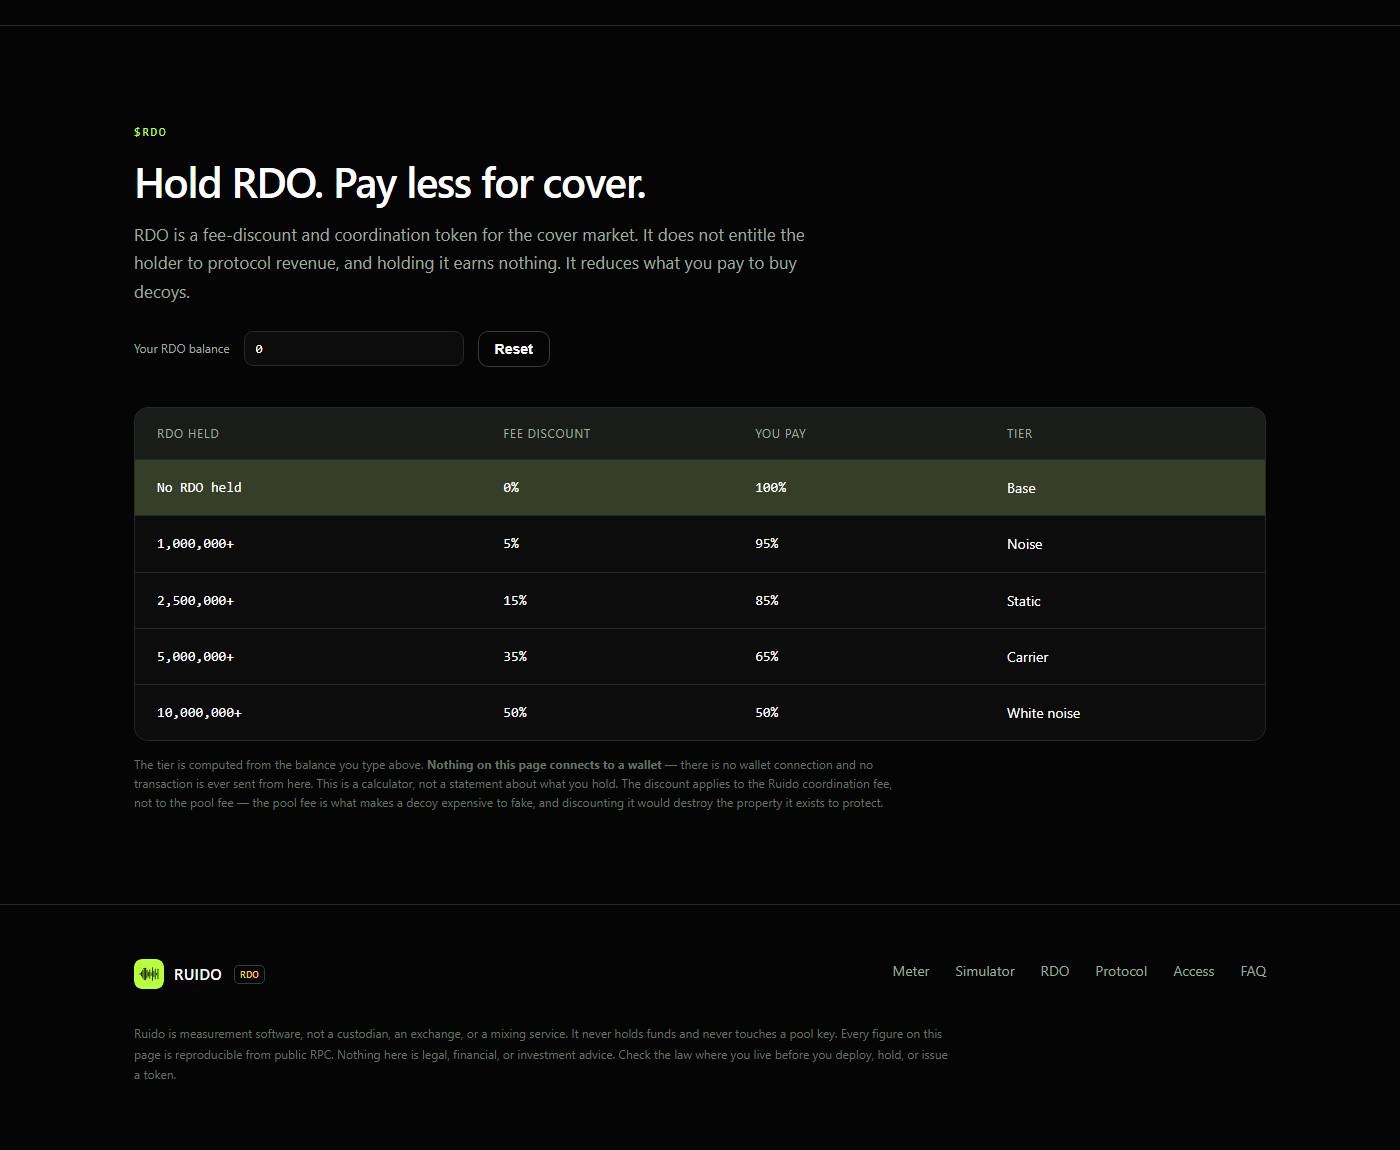
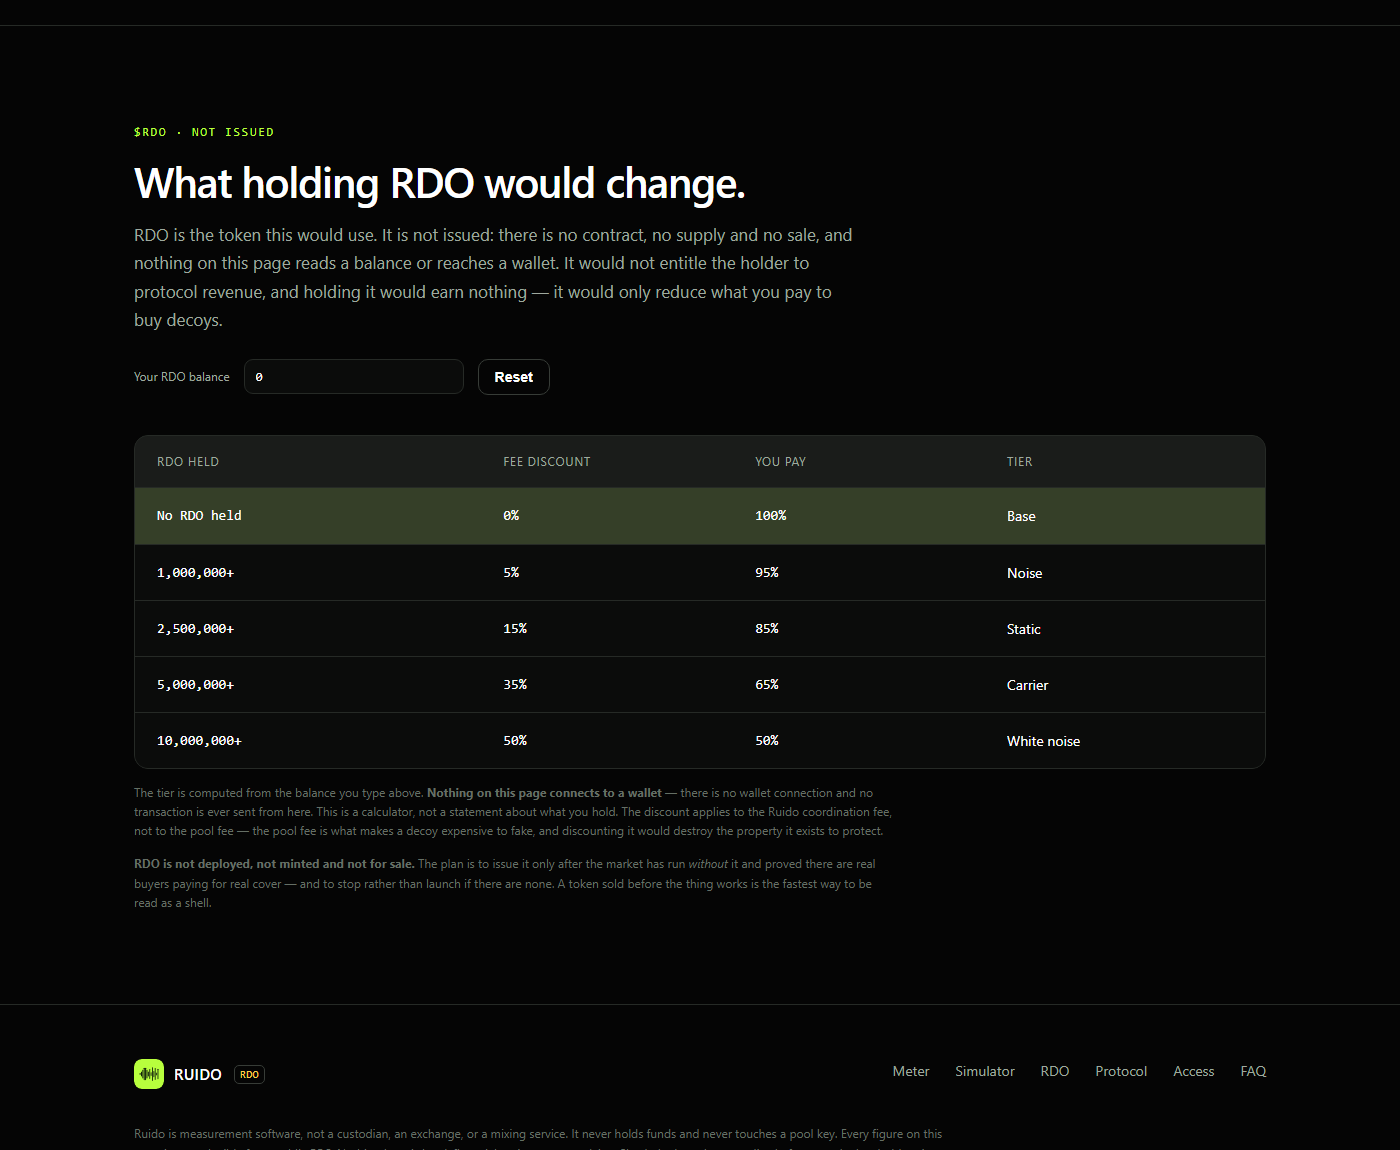
Stop describing RDO in the present tense
app.html said "RDO is a fee-discount and coordination token for the cover
market" under a heading that read "Hold RDO. Pay less for cover." RDO is
not deployed, not minted and not for sale. There is no contract, no
supply, no sale, and not one line of code that issues a token -- the only
token in the tree is STRK_TOKEN, which is Starknet's STRK, not ours.

The rule this broke is the project's own: the copy describes only what is
built. The note underneath did say "this is a calculator, not a statement
about what you hold", but nothing anywhere said RDO does not exist yet,
which is the one fact a reader needs before anything else.

Now, in the section:
  - eyebrow    $RDO -> $RDO · not issued
  - heading    What holding RDO would change.
  - lede       RDO is the token this would use. It is not issued: there is
               no contract, no supply and no sale, and nothing on this page
               reads a balance or reaches a wallet.
  - a new note stating it is not deployed, not minted and not for sale,
    and that the plan is to issue it only after the market has run WITHOUT
    it and proved there are real buyers -- and to stop rather than launch
    if there are none.

Two other places made the same claim, so fixing only the section would
have left the published site contradicting itself. The README said "RDO
exists to solve exactly one problem" and docs/CUSTOMER.md said "RDO is a
fee discount". Both now say it is not issued. The FAQ entry "Is RDO an
[…]

diff --git a/app.html b/app.html
@@ -189,12 +189,13 @@
 <!-- ================= RDO ================= -->
 <section id="rdo">
   <div class="wrap">
-    <span class="sec-eyebrow">$RDO</span>
-    <h2 class="sec">Hold RDO. Pay less for cover.</h2>
+    <span class="sec-eyebrow">$RDO · not issued</span>
+    <h2 class="sec">What holding RDO would change.</h2>
     <p class="sec-lede">
-      RDO is a fee-discount and coordination token for the cover market. It does
-      not entitle the holder to protocol revenue, and holding it earns nothing.
-      It reduces what you pay to buy decoys.
+      RDO is the token this would use. It is not issued: there is no contract, no
+      supply and no sale, and nothing on this page reads a balance or reaches a
+      wallet. It would not entitle the holder to protocol revenue, and holding it
+      would earn nothing — it would only reduce what you pay to buy decoys.
     </p>
 
     <div class="tier-ctrl">
@@ -231,6 +232,14 @@
       about what you hold. The discount applies to the Ruido coordination fee,
       not to the pool fee — the pool fee is what makes a decoy expensive to
       fake, and discounting it would destroy the property it exists to protect.
+    </p>
+
+    <p class="note" style="max-width:760px">
+      <b>RDO is not deployed, not minted and not for sale.</b> The plan is to
+      issue it only after the market has run <i>without</i> it and proved there
+      are real buyers paying for real cover — and to stop rather than launch if
+      there are none. A token sold before the thing works is the fastest way to
+      be read as a shell.
     </p>
   </div>
 </section>

diff --git a/index.html b/index.html
@@ -657,10 +657,11 @@
       </details>
       <details>
         <summary>Is RDO an investment?</summary>
-        <p>No. It is a fee-discount token for a service. It carries no claim on
-        revenue, no governance rights over the pool, and no emissions to
-        holders. Token designs that look like securities are a legal problem,
-        not a feature — read docs/TOKEN.md before treating it as anything else.</p>
+        <p>No — and it is not issued, so there is nothing to invest in. It would
+        be a fee-discount token for a service: no claim on revenue, no
+        governance rights over the pool, no emissions to holders. Token designs
+        that look like securities are a legal problem, not a feature — read
+        docs/TOKEN.md before treating it as anything else.</p>
       </details>
     </div>
   </div>

diff --git a/README.md b/README.md
@@ -165,9 +165,9 @@ unusual and worth keeping.
 
 **Order: product, then usage, then token.** Run the market with no token first —
 invoiced, or prepaid in STRK. If nobody buys cover at cost, a token will not
-create demand. RDO exists to solve exactly one problem, paying anonymous
+create demand. RDO is designed to solve exactly one problem, paying anonymous
 cross-border providers per verified action, and it carries no revenue claim and
-no emissions for holding. The full design, including the commitment scheme that
+no emissions for holding. **It is not deployed, not minted and not for sale.** The full design, including the commitment scheme that
 stops one batch of decoys being sold twice, is in
 [`docs/TOKEN.md`](docs/TOKEN.md).
 

diff --git a/docs/CUSTOMER.md b/docs/CUSTOMER.md
@@ -121,7 +121,7 @@ printed as a number rather than rounded away.
 | run a node or a prover | that is the operator's problem, and the reason the market exists |
 | hand over a key | the only key in the flow is the provider's, and it never leaves the provider's host |
 | route their transaction through Ruido | the customer's own wallet does that, unchanged |
-| hold RDO to be served | RDO is a fee discount. It is not a ticket and not a stake |
+| hold RDO to be served | RDO is not issued. It would be a fee discount, not a ticket and not a stake |
 | trust a number they cannot recompute | every figure is reproducible from public RPC |
 
 ---
